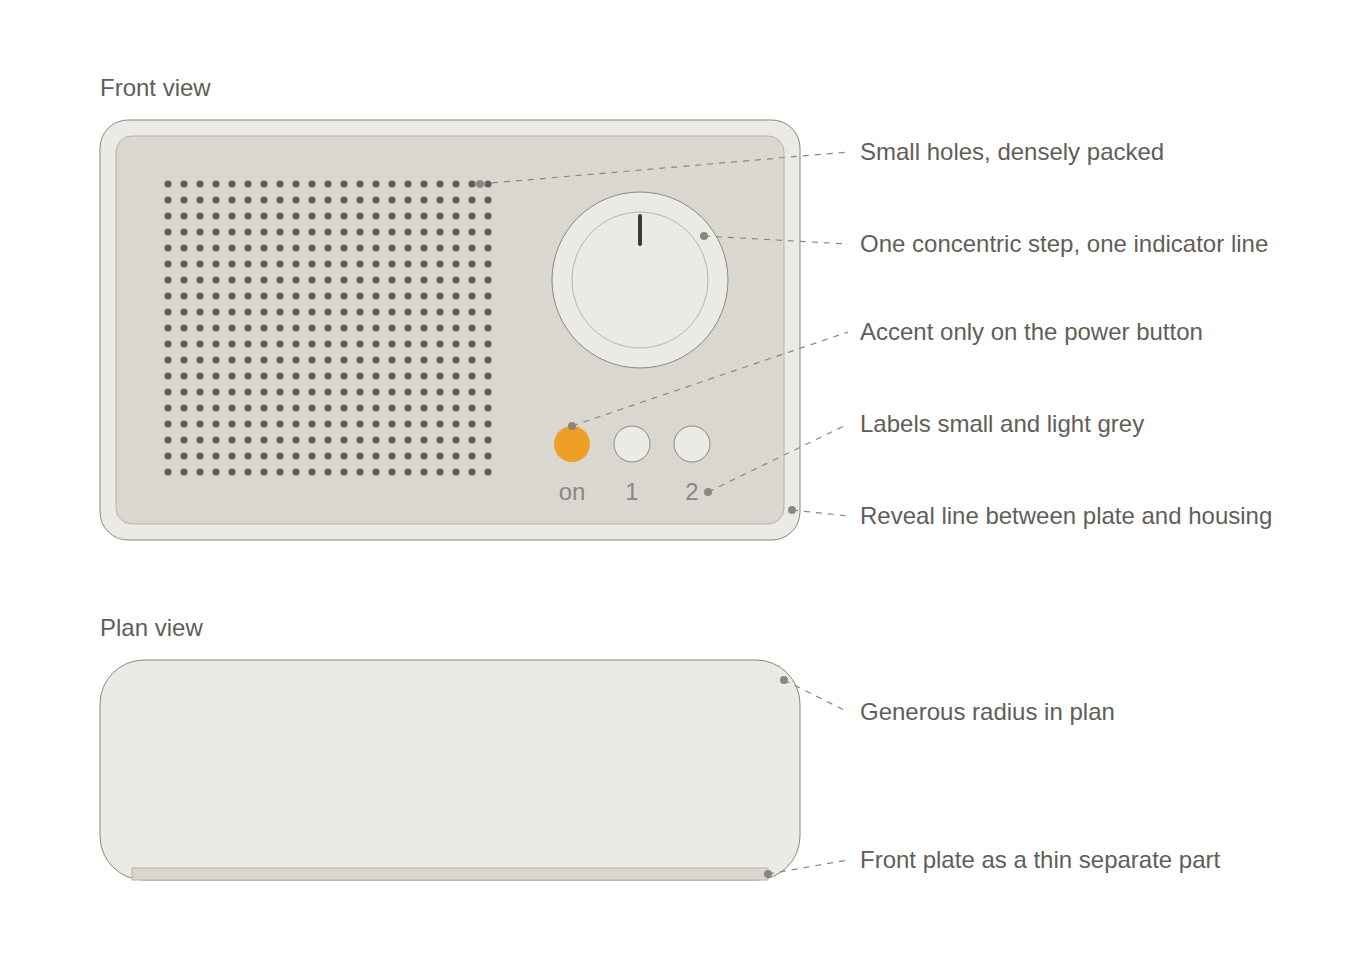
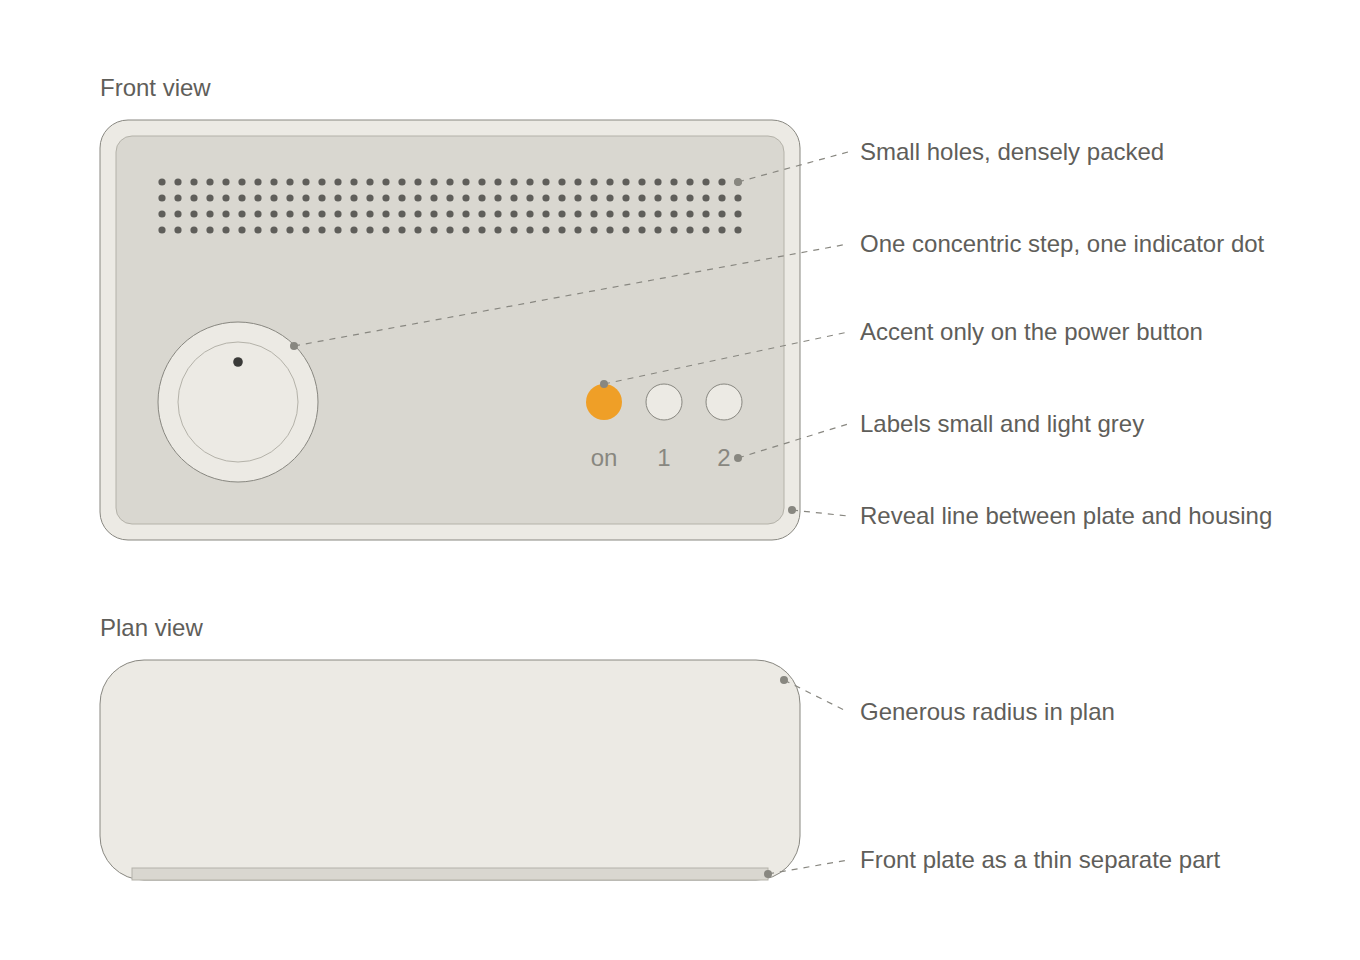
Redesign the clock and radio samples and align the Braun wording
The clock and the radio read too close to particular products of the style
the skill describes. The clock now has an arched body concentric with the
dial, round dot indices and no second hand; the single accent moves to the
12 o'clock dot. The radio front puts the perforation in a band across the top
and the controls on one line below it, with a low dial and a dot indicator.
The design rules, numbers and procedures are unchanged.

The README introductions, the skill description, the Honesty section and the
licence notes now mention Braun and Dieter Rams only to describe where the
style comes from, and carry one independence statement.

diff --git a/skills/fdm-minimal-design/scripts/fdm_samples.py b/skills/fdm-minimal-design/scripts/fdm_samples.py
@@ -16,12 +16,12 @@ Design rules applied everywhere (see references/02_rules.md):
 
 To start a new object, copy template_new_object.py rather than editing this file.
 
-  01_clock          rotational face in a square body   | through-bore, step instead of a ceiling
+  01_clock          round dial in an arched body        | through-bore, step instead of a ceiling
   02_remote         handheld slab, body + face plate    | face plate printed face-down, inset with reveal
   03_tray           open container                      | single part, 2:1 cells, wall hierarchy
   04_cylinder       vertical tube speaker               | 2:1 tube, round-ended vertical slots
   05_stand          angled device stand                 | printed on its side so the profile is crisp
-  06_radio          box device with knob and buttons    | sleeve body, slide-in plate, cover on magnets
+  06_radio          box device, grille over controls    | sleeve body, slide-in plate, cover on magnets
   07_hinged_case    box with hinged lid                 | pin hinge, 45-deg knuckle webs, magnets
   08_power_bank     slab with battery door and port     | dovetail slide door, printed snap tab, USB-C window
   09_wall_unit      wall-mounted unit                   | keyhole bracket, removable snap hooks, clear window
@@ -29,6 +29,7 @@ To start a new object, copy template_new_object.py rather than editing this file
   11_split_riser    object larger than the bed          | halves printed on side, dowels, joint as V line
   12_threaded_jar   screw-top container                 | 45-deg threads, flush lid
 """
+import math
 import os
 from dataclasses import dataclass
 import cadquery as cq
@@ -84,10 +85,14 @@ def fillet_at(wp, xy, r, zmax=1000):
 
 
 def knob_local(R, H, inner_r, groove, rib_n, rib_z0, dshaft=True):
-    """Axis +Z, front face at z=0. Concentric step + one indicator groove (toward -Y)."""
+    """Axis +Z, front face at z=0. Concentric step + one indicator toward -Y:
+    groove=(r0, r1) cuts a line from r0 to r1, groove=r cuts a dot (diameter 2.4) at radius r."""
     k = cyl(R, 0, H).faces("<Z").chamfer(CH).faces(">Z").chamfer(CH)
     k = k.cut(cyl(inner_r, -0.01, 0.81))
-    k = k.cut(box(-0.6, 0.6, -groove[1], -groove[0], -0.01, 1.4))
+    if isinstance(groove, tuple):
+        k = k.cut(box(-0.6, 0.6, -groove[1], -groove[0], -0.01, 1.4))
+    else:
+        k = k.cut(cyl(1.2, -0.01, 1.41, 0, -groove))
     ribs = (cq.Workplane("XY").workplane(offset=rib_z0)
             .polarArray(R, 0, 360, rib_n).rect(1.0, 0.8).extrude(H))
     k = k.cut(ribs)
@@ -121,47 +126,63 @@ def feet(wp, pts, z_bottom=0.0):
 
 # ---------------- 01 clock ----------------
 CLOCK_SHAFT_HOLE = 7.6      # movement thread; check your movement
-HAND_HOLES = {"hour": 5.2, "minute": 3.1, "second": 1.1}  # vary by movement
+HAND_HOLES = {"hour": 5.2, "minute": 3.1}  # vary by movement; the sample has no second hand
 
 
 def clock():
-    # grid 4: S=100 (25), R=16 (4), DEP=36 (9), dial 88 (22)
-    S, R, DEP = 100.0, 16.0, 36.0
+    # grid 4: W=104 (26), arch R=52 (13), DEP=36 (9), dial 88 (22), dot ring 72 (18)
+    # The top of the body is a half circle concentric with the dial, so the frame around the
+    # dial is one even band (52 - 44 = 8). Below the dial the frame doubles (16), which puts
+    # the dial above the middle of the body. The bottom stands flat; its corners take R8,
+    # the same width as the frame.
+    W, DEP = 104.0, 36.0
+    R_TOP = W / 2
     DIAL_R = 44.0
-    MARK_OUT, MAJ_IN, MIN_IN = 40.0, 30.0, 34.0
-    outer = rrect(S, S, R, 0, DEP).faces("<Z").chamfer(CH_BED).faces(">Z").chamfer(CH)
+    FRAME = R_TOP - DIAL_R                    # 8
+    LOW = -(DIAL_R + 2 * FRAME)               # bottom face, 60 below the dial centre
+    RING, MAJ_D, MIN_D = 36.0, 4.8, 2.4       # dot diameters 2:1
+    outline = (cq.Workplane("XY").moveTo(-R_TOP, LOW).lineTo(R_TOP, LOW).lineTo(R_TOP, 0)
+               .threePointArc((0, R_TOP), (-R_TOP, 0)).close().extrude(DEP))
+    for x in (-R_TOP, R_TOP):
+        outline = fillet_at(outline, (x, LOW), FRAME)
+    outer = outline.faces("<Z").chamfer(CH_BED).faces(">Z").chamfer(CH)
     housing = outer.cut(cyl(41.0, -1, DEP + 2)).cut(cyl(DIAL_R + GAP, DEP - 2.4, 3))
     housing = chamfer_rim(housing, DIAL_R + GAP, DEP)          # same edge as the outer rim
 
     dial = cyl(DIAL_R, DEP - 2.4, 2.4).faces(">Z").chamfer(CH)
-    marks = None
+    marks = top_mark = None
     for i in range(12):
         major = i % 3 == 0
-        w, r0 = (2.4, MAJ_IN) if major else (1.2, MIN_IN)    # widths: 2:1
-        m = rz(box(-w / 2, w / 2, r0, MARK_OUT, DEP - 0.4, DEP), -30 * i)
-        marks = m if marks is None else marks.union(m)
-    dial = dial.cut(marks).cut(cyl(CLOCK_SHAFT_HOLE / 2, DEP - 3, 4))
+        d = MAJ_D if major else MIN_D
+        a = math.radians(30 * i)
+        m = cyl(d / 2, DEP - 0.4, 0.4, RING * math.sin(a), RING * math.cos(a))
+        if i == 0:
+            top_mark = m                       # 12 o'clock: the one accent, marks which way is up
+        else:
+            marks = m if marks is None else marks.union(m)
+    dial = dial.cut(marks).cut(top_mark).cut(cyl(CLOCK_SHAFT_HOLE / 2, DEP - 3, 4))
 
-    def hand(w, front, back, hub, hole, t):
-        h = box(-w / 2, w / 2, -back, front, 0, t).union(cyl(hub, 0, t))
-        return h.cut(cyl(hole / 2, -1, t + 2))
+    def hand(w, tip, hub, hole, t):
+        # round-ended bar: the same circle as the dots, drawn out
+        h = box(-w / 2, w / 2, 0, tip - w / 2, 0, t).union(cyl(w / 2, 0, t, 0, tip - w / 2))
+        return h.union(cyl(hub, 0, t)).cut(cyl(hole / 2, -1, t + 2))
 
-    # hand lengths are taken from the dial: hour stops 2 mm short of the major marks,
-    # minute ends mid-way in the minor marks, second reaches the marks' outer radius.
-    # hubs step down 1 mm each so the stack reads as concentric rings.
+    # hand widths are the two dot diameters. The minute hand stops 1.6 mm (4 lines) short
+    # of the major dots; the hour hand is 3/4 of the minute hand. Hubs step down 1 mm.
+    MIN_TIP = RING - MAJ_D / 2 - 1.6           # 32
     hands = {
-        "hand_hour": (hand(4.0, MAJ_IN - 2, 0, 5.0, HAND_HOLES["hour"], 1.0), DEP + 0.6, 60, DARK),
-        "hand_minute": (hand(2.4, (MIN_IN + MARK_OUT) / 2, 0, 4.0, HAND_HOLES["minute"], 1.0), DEP + 1.8, -48, DARK),
-        "hand_second": (hand(1.2, MARK_OUT, 12, 3.0, HAND_HOLES["second"], 0.8), DEP + 3.0, 180, ACC),
+        "hand_hour": (hand(MAJ_D, 0.75 * MIN_TIP, 5.0, HAND_HOLES["hour"], 1.0), DEP + 0.6, 60),
+        "hand_minute": (hand(MIN_D, MIN_TIP, 4.0, HAND_HOLES["minute"], 1.0), DEP + 1.8, -48),
     }
     disp = lambda wp: rx(wp, 90)
     parts = {
         "housing": Part(disp(housing), housing, OFF),
         "dial": Part(disp(dial), rx(dial, 180), PLATE),
         "dial_marks_inlay": Part(disp(marks), rx(marks, 180), DARK, anchor="dial"),
+        "dial_top_mark_inlay": Part(disp(top_mark), rx(top_mark, 180), ACC, anchor="dial"),
     }
-    for n, (h, z0, ang, col) in hands.items():
-        parts[n] = Part(disp(rz(h, ang).translate((0, 0, z0))), h, col)
+    for n, (h, z0, ang) in hands.items():
+        parts[n] = Part(disp(rz(h, ang).translate((0, 0, z0))), h, DARK)
     return parts
 
 
@@ -359,9 +380,10 @@ FONT = _find_font()
 def radio():
     """Box device. Sleeve body (open top), plate slides down into grooves, top cover on magnets.
     Front 144 x 96 = 3:2. Front-plate layout uses alignment lines instead of loose placement:
-      * grille margin is equal on left, top and bottom
-      * control column is centred between the grille and the plate edge
-      * dial top = grille top, label baseline zone = grille bottom
+      * the grille is a band across the top of the plate; its margin m is the same on the
+        left, top and right, and again below the dial
+      * dial left edge = grille left edge, right button edge = grille right edge
+      * the dial and the buttons share one centre line; the labels sit under the buttons
     """
     W, D, H_BODY, H_COVER, R = 144.0, 72.0, 88.0, 8.0, 12.0
     T_FRONT, FLOOR = 4.8, 2.4
@@ -398,23 +420,19 @@ def radio():
     # ---- front plate layout ----
     vx = WIN_X - GAP                         # visible half width 57.75
     vz0, vz1 = WIN_Z0 + GAP, H_BODY          # visible plate (cover sits on top)
-    zc = (vz0 + vz1) / 2
     PD, PP = 2.4, 4.0
-    NR = 15
-    half = PP * (NR - 1) / 2
-    rows = [zc - half + PP * j for j in range(NR)]
-    m = (vz1 - zc) - (half + PD / 2)         # grille margin, used on left/top/bottom
-    cols = [-vx + m + PD / 2 + PP * i for i in range(12)]
-    grille_r = cols[-1] + PD / 2
-    ctrl_x = (grille_r + vx) / 2             # control column centre
-    pitch = 16.0
-    btn_xs = [ctrl_x - pitch, ctrl_x, ctrl_x + pitch]
-    DIAL_R, DIAL_H = 16.0, 11.5              # dial diameter = outer button centre distance (2 x 16)
-    dial_z = rows[-1] + PD / 2 - DIAL_R      # dial top = grille top
+    NC, NR = 25, 4
+    m = vx - PP * (NC - 1) / 2 - PD / 2      # grille margin 8.55, used left/top/right and below the dial
+    cols = [PP * (i - (NC - 1) / 2) for i in range(NC)]
+    rows = [vz1 - m - PD / 2 - PP * j for j in range(NR)]
+    DIAL_R, DIAL_H = 16.0, 8.0               # dial diameter = outer button centre distance (2 x 16)
+    dial_x = -vx + m + DIAL_R                # dial left edge = grille left edge
+    dial_z = vz0 + m + DIAL_R                # margin below the dial = grille margin
+    BTN_D, pitch = 10.0, 16.0
+    btn_xs = [vx - m - BTN_D / 2 - pitch * k for k in (2, 1, 0)]   # right button edge = grille right edge
+    btn_z = dial_z                           # one centre line for every control
     LABEL_H = 3.0
-    label_z = rows[0] - PD / 2 + LABEL_H / 2  # label zone bottom = grille bottom
-    BTN_D = 10.0
-    btn_z = label_z + LABEL_H / 2 + 3.0 + BTN_D / 2
+    label_z = btn_z - BTN_D / 2 - 3.0 - LABEL_H / 2
 
     face = box(-vx, vx, 0, PT_FACE, vz0, PLATE_TOP).edges("|Y").fillet(0.75).faces("<Y").chamfer(CH)
     tongue = box(-(GROOVE_X - GAP), GROOVE_X - GAP, PT_FACE, PT, GZ0 + GAP, PLATE_TOP)
@@ -422,7 +440,7 @@ def radio():
     fp = lambda o: cq.Workplane(cq.Plane(origin=o, xDir=(1, 0, 0), normal=(0, -1, 0)))
     plate = plate.cut(fp((0, PT + 1, 0)).pushPoints([(x, z) for x in cols for z in rows])
                       .circle(PD / 2).extrude(PT + 2))
-    for (x, z, d) in [(ctrl_x, dial_z, 7.2)] + [(x, btn_z, BTN_D + 0.6) for x in btn_xs]:
+    for (x, z, d) in [(dial_x, dial_z, 7.2)] + [(x, btn_z, BTN_D + 0.6) for x in btn_xs]:
         plate = plate.cut(fp((x, PT + 1, z)).circle(d / 2).extrude(PT + 2))
     inlay = None
     for x, txt in zip(btn_xs, ["on", "1", "2"]):
@@ -445,7 +463,7 @@ def radio():
     cover = cover.union(lip)
 
     # ---- dial and buttons ----
-    dial_l = knob_local(DIAL_R, DIAL_H, DIAL_R - 3.5, (4.5, DIAL_R - 5.0), 44, 3.0)
+    dial_l = knob_local(DIAL_R, DIAL_H, DIAL_R - 3.5, DIAL_R - 7.0, 44, 4.0)   # low disc, dot indicator
     btn_l = button_local(BTN_D, 3.0, PT, 6.5, stem_r=2.0, stem_len=4.0)
     to_asm = lambda wp, x, y, z: wp.rotate((0, 0, 0), (1, 0, 0), -90).translate((x, y, z))
     parts = {
@@ -453,7 +471,7 @@ def radio():
         "front_plate": Part(plate, rx(plate, 90), PLATE),
         "label_inlay": Part(inlay, rx(inlay, 90), LABEL_GRAY, anchor="front_plate"),
         "top_cover": Part(cover, rx(cover, 180), OFF),
-        "dial": Part(to_asm(dial_l, ctrl_x, -(DIAL_H + 0.5), dial_z), rx(dial_l, 180), OFF),
+        "dial": Part(to_asm(dial_l, dial_x, -(DIAL_H + 0.5), dial_z), rx(dial_l, 180), OFF),
         "button_on": Part(to_asm(btn_l, btn_xs[0], -3.0, btn_z), btn_l, ACC),
     }
     b12 = to_asm(btn_l, btn_xs[1], -3.0, btn_z).union(to_asm(btn_l, btn_xs[2], -3.0, btn_z))

diff --git a/skills/fdm-minimal-design/SKILL.md b/skills/fdm-minimal-design/SKILL.md
@@ -1,12 +1,13 @@
 ---
 name: fdm-minimal-design
-description: Design, review and 3D-model minimal, refined products for FDM 3D printing, in a design language inspired by 1960s-70s Braun products (Dieter Rams); not affiliated with Braun or its trademark owners. Includes design principles, numeric design rules, Dos and Don'ts, a review procedure, 12 sample objects (STEP) and CadQuery scripts to generate, verify and render models. Use this skill whenever someone wants to make an enclosure, case, small object, stand, clock, lamp, container or similar with 3D CAD or a 3D printer in a style described as "Braun-like", "Rams-like", "like a minimal appliance" or "simple but not cheap-looking", and whenever they ask why their own shape looks lazy or amateurish, even if the word Braun never comes up.
+description: Design, review, and model minimalist, refined objects for FDM 3D printing (enclosures, stands, clocks, lamps, containers, desk items). Use this skill when the user asks for a minimalist or "simple but not cheap-looking" design, or describes the look as "Braun-like" or "Dieter Rams-style", even if those words are not used. Also use it when someone asks why their own shape looks lazy or amateurish. Includes design principles, numeric design rules, Dos and Don'ts, a review procedure, 12 sample objects (STEP) and CadQuery scripts to generate, verify and render models.
 ---
 
 # FDM minimal design
 
 A skill for designing objects in a specific design language and fitting it to the constraints of FDM 3D printing.
 The language: large radii in plan with sharp edges, a grid, achromatic colours plus a single accent, and repetition of one shape.
+The rules describe a design language seen in mid-century German consumer products, especially Braun's 1960s–70s line designed under Dieter Rams. They are distilled into original, measurable rules for FDM printing; they are not taken from any official Braun or Rams document.
 
 The goal is a form that is "simple, but does not look lazy". The fewer the elements, the more precision and justification they demand, so the skill is built around two habits: **give every dimension a reason, and always review the design after making it**.
 
@@ -73,7 +74,7 @@ Check it with the procedure in `04_review.md` and return the problems in a table
 ## Honesty
 
 - The numbers (clearances, snaps, threads, hole diameters) are rules of thumb, not values confirmed on real prints. Always say so when handing them over, and tell the user to settle them with a test piece of the mating features.
-- Do not reproduce the form of a specific Braun product, or any trademark or logo. Make original forms by applying the principles.
+- Do not reproduce any specific Braun product, logo, or trade dress, and do not name products or model numbers as the model for a design. Make original forms by applying the principles.
 - Do not vouch for quality based on how it looks on screen. Tell the user to judge gaps and edges on the real print.
 - Printed parts are not certified for anything. For objects that hold batteries or LEDs, get hot, or touch food, do not claim the printed part is safe; tell the user to use certified electronic components and to check the material and the electrical design themselves.
 
@@ -81,3 +82,7 @@ Check it with the procedure in `04_review.md` and return the problems in a table
 
 - **What the scripts need:** Python 3.11 or later and `cadquery`. `trimesh` and `vtk` are optional and are used for mesh checks and rendering. Install with `pip install cadquery trimesh` (vtk comes with cadquery). The repository this skill comes from pins tested versions in `requirements.txt`.
 - **If CadQuery is not available:** give advice in the style of A and point to the STEP files of the samples as reference shapes. STEP opens in common CAD software, which can export STL from it.
+
+## Independent project
+
+This is an independent project. It is not affiliated with, endorsed by, or sponsored by Braun, The Procter & Gamble Company, De'Longhi, Vitsœ, or Dieter Rams. "Braun" is a trademark of its respective owner and is used here only to describe a historical design style. The skill and the models do not reproduce any specific Braun product, logo, or trade dress.

diff --git a/skills/fdm-minimal-design/references/05_catalog.md b/skills/fdm-minimal-design/references/05_catalog.md
@@ -46,25 +46,27 @@ Preview images are in `assets/samples/<name>/`, with the STEP files next to them
 ---
 
 
-## 01 clock — square body + round dial
+## 01 clock — arched body + round dial
 
-- **Rationale for dimensions:** decided on a 4 mm grid. Outline 100, R16, depth 36, dial Ø88.
+- **Rationale for dimensions:** decided on a 4 mm grid. Width 104, depth 36, dial Ø88.
+  - The top of the body is a half circle (R52) concentric with the dial, so the frame around the dial is one even band of 8.
+  - Below the dial the frame doubles to 16, which puts the dial above the middle of the body. Height 112.
+  - The bottom stands flat. Its two corners take R8, the same as the frame width, so the object uses two radii.
 - **Print strategy:** the housing prints back face down, with a through bore and a counterbore on the front side. The step becomes a shelf seen from above, so no bridge forms.
 - **Details:**
-  - The indices are 12 inlays; major and minor indices have widths of 2:1.
-  - Hand lengths are taken from the dial. The hour hand stops 2 mm short of the major indices, the minute hand ends in the middle of the minor indices, and the second hand reaches the outer end of the indices.
-  - Only the second hand gets the accent colour.
+  - The indices are 12 round dots inlaid in the dial; major and minor dots have diameters of 2:1 (Ø4.8 and Ø2.4) on one circle of Ø72.
+  - The hands are round-ended bars, the same circle drawn out. Their widths are the two dot diameters. The minute hand stops 1.6 mm short of the major dots, and the hour hand is 3/4 of the minute hand.
+  - There is no second hand. The accent goes on the 12 o'clock dot only: it tells which way is up on a dial without numerals.
 
 | Part | Orientation | Colour |
 |---|---|---|
 | housing | Back face down | Off-white |
-| dial + dial_marks_inlay | Front face down (layers 1–2 in another colour) | Light grey + dark |
+| dial + dial_marks_inlay + dial_top_mark_inlay | Front face down (layers 1–2 in other colours) | Light grey + dark + accent |
 | hand_hour / hand_minute | Flat | Dark |
-| hand_second | Flat | Accent |
 
 **Notes:**
 - Shaft diameters of movements and hand holes differ from product to product. Match `CLOCK_SHAFT_HOLE` and `HAND_HOLES` to the parts you have.
-- The second-hand hole (Ø1.1) assumes finishing with a drill.
+- Use a movement without a seconds shaft, or leave its second hand off.
 
 ## 02 remote — one-piece body + face plate
 
@@ -138,9 +140,10 @@ Preview images are in `assets/samples/<name>/`, with the STEP files next to them
   - The front opening runs to the top, and the front plate slides down into grooves. This avoids a bridge of about 120 mm.
   - The top cover is located by a lip and four magnets.
 - **Front plate layout:** decided by alignment lines, not by positions.
-  - The perforation margin is equal on the left, top and bottom.
-  - The control column sits midway between the right edge of the perforation and the right edge of the plate.
-  - The top of the dial aligns with the top of the perforation, the bottom of the labels with the bottom of the perforation.
+  - The perforation is a band of 25 × 4 holes across the top of the plate. Its margin is equal on the left, top and right, and the same margin is left below the dial.
+  - The left edge of the dial aligns with the left edge of the perforation, the right edge of the last button with its right edge.
+  - The dial and the three buttons share one centre line; the labels sit under the buttons.
+  - The dial is a low disc (height 8) with one step and one dot as the indicator; the grip ribs are on the back band only.
   - Chamfers are C0.5 throughout.
 
 | Part | Orientation | Colour |

diff --git a/README.ja.md b/README.ja.md
@@ -1,14 +1,14 @@
 # fdm-minimal-design
 
-FDM の 3D プリント向けに、ミニマルで洗練されたプロダクトを設計するためのエージェントスキルと、そのサンプルモデル。
+fdm-minimal-design は、FDM の 3D プリント向けにミニマルな物を設計するエージェントのスキル。造形言語は、1960〜70 年代の
+Braun 製品（その多くを Dieter Rams がデザインした）に着想を得ている。サンプルのモデルも入っている。
 
 [English](README.md)
 
 ![12 種のサンプル](skills/fdm-minimal-design/assets/samples/overview.png)
 
 このスキルは Claude に、ひとつの造形言語（平面は大きな R・稜線はシャープ、グリッド、無彩色＋アクセント 1 色、同一形状の反復）と、
-それを FDM の制約に合わせるやり方を教える。造形言語は、1960〜70 年代の Braun 製品（Dieter Rams）に見られる造形言語に着想を得ている。
-**このプロジェクトは Braun およびその商標権者とは無関係で、承認や後援も受けていない。** Braun 製品の形・名前・ロゴは再現しない。
+それを FDM の制約に合わせるやり方を教える。
 
 ## できること
 
@@ -96,3 +96,9 @@ tests/                       道具のテスト
 
 - 寸法（クリアランス・スナップ・ネジ・穴）は経験的な目安で、**サンプルは実機で印刷していない**。全体を印刷する前に、嵌合部だけのテストピースで確かめること
 - **印刷した部品は、どんな用途の認証も受けていない。** 電池や LED を入れる物、熱を持つ物、食品に触れる物では、印刷した部品の安全を保証しない。電子部品（電池・充電器・LED ドライバー・電源）は認証済みの物を使い、材料と電気の設計は自分で確かめること
+
+## 独立したプロジェクトであること
+
+このプロジェクトは独立したもので、Braun、The Procter & Gamble Company、De'Longhi、Vitsœ、Dieter Rams のいずれとも関係がなく、
+承認や後援も受けていない。「Braun」はその権利者の商標で、歴史的な様式を説明するためにだけ名前を出している。
+スキルとモデルは、特定の Braun 製品・ロゴ・外観を再現していない。

diff --git a/README.md b/README.md
@@ -1,16 +1,15 @@
 # fdm-minimal-design
 
-An agent skill for designing minimal, refined products for FDM 3D printing, with example models.
+fdm-minimal-design is an agent skill for designing minimalist objects for FDM 3D printing. Its design language is
+inspired by the consumer products Braun made in the 1960s and 1970s, many of them designed by Dieter Rams. The
+repository also holds example models.
 
 [日本語](README.ja.md)
 
 ![The 12 sample objects](skills/fdm-minimal-design/assets/samples/overview.png)
 
 The skill teaches Claude a design language — large radii in plan with sharp edges, a grid, achromatic colours with a
-single accent, repetition of one shape — and how to fit it to the constraints of FDM printing. The language is inspired
-by the design language seen in Braun products of the 1960s and 1970s (Dieter Rams). **This project is not affiliated
-with, endorsed by or sponsored by Braun or its trademark owners**, and it does not reproduce the form, names or logos of
-any Braun product.
+single accent, repetition of one shape — and how to fit it to the constraints of FDM printing.
 
 ## What it does
 
@@ -104,3 +103,10 @@ Everything here is provided as is, without warranty (see the licences). In parti
 - **Printed parts are not certified for anything.** For objects that hold batteries or LEDs, get hot, or touch food,
   the safety of the printed parts is not guaranteed. Use certified electronic components (batteries, chargers, LED
   drivers, power supplies) and check the materials and the electrical design yourself.
+
+## Independent project
+
+This is an independent project. It is not affiliated with, endorsed by, or sponsored by Braun, The Procter & Gamble
+Company, De'Longhi, Vitsœ, or Dieter Rams. "Braun" is a trademark of its respective owner and is used here only to
+describe a historical design style. The skill and the models do not reproduce any specific Braun product, logo, or
+trade dress.

diff --git a/skills/fdm-minimal-design/references/01_principles.md b/skills/fdm-minimal-design/references/01_principles.md
@@ -2,7 +2,7 @@
 
 The thinking behind the rules (02) and the Dos and Don'ts (03). When a rule leaves you unsure, come back here.
 
-The subject is the design language this skill is inspired by (see the description in `SKILL.md`): one shared across a family of household appliances, audio equipment, clocks and calculators from the 1950s to the 1970s.
+The subject is the design language this skill is inspired by (see the introduction of `SKILL.md`): one shared across a family of household appliances, audio equipment, clocks and calculators from the 1950s to the 1970s.
 It is not for reproducing any particular product; it is for applying the **thinking** to your own designs.
 
 ---
